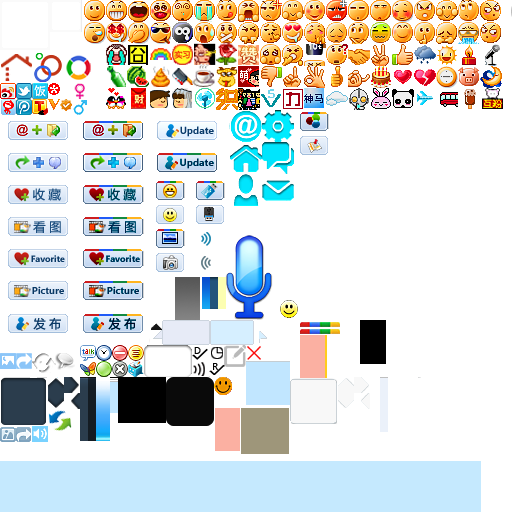
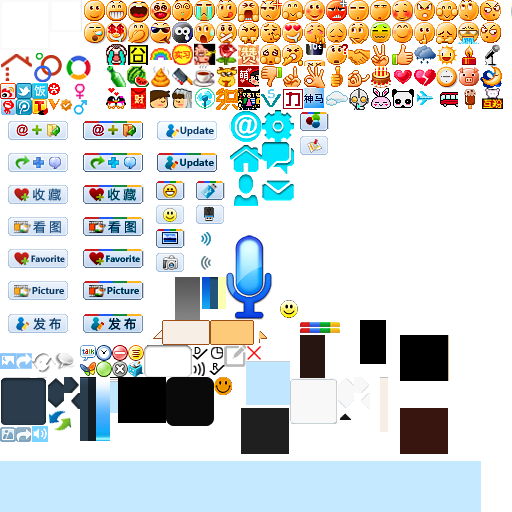
G+暖色配色

diff --git a/branches/BBM_Skin/client/src/com/yuchting/yuchberry/client/im/MainChatScreen.java b/branches/BBM_Skin/client/src/com/yuchting/yuchberry/client/im/MainChatScreen.java
@@ -676,7 +676,7 @@ final class MiddleMgr extends VerticalFieldManager{
 
 public class MainChatScreen extends MainScreen implements ChatField.IChatFieldOpen{
 	
-	public final static int fsm_background = 0xf3ecfc;
+	public final static int fsm_background = 0xd8d8d8; //聊天对话背景色
 	
 	int m_menu_op = 0;
 	MenuItem m_sendMenu = new MenuItem(recvMain.sm_local.getString(yblocalResource.WEIBO_SEND_LABEL),m_menu_op++,0){
@@ -894,7 +894,7 @@ public class MainChatScreen extends MainScreen implements ChatField.IChatFieldOp
 				
 				_g.setColor(0xffffff);//(RosterItemField.fsm_nameTextColor);//
 				_g.setFont(MainIMScreen.fsm_boldFont);
-				
+	
 				_g.drawText(m_currRoster.m_roster.getName(),t_x,2);
 				
 			}finally{
@@ -902,10 +902,10 @@ public class MainChatScreen extends MainScreen implements ChatField.IChatFieldOp
 				_g.setFont(font);
 			}
 			
-			t_x = RosterItemField.drawChatSign(_g,getPreferredWidth(),getPreferredHeight(),m_currRoster.m_roster.getStyle(),m_currRoster.m_isYuch);
+			t_x = RosterItemField.drawChatSign(_g,getPreferredWidth() - 35 ,getPreferredHeight(),m_currRoster.m_roster.getStyle(),m_currRoster.m_isYuch);//防止系统输入法标示遮挡sign
 						
 			if(m_currRoster.m_currChatState == fetchChatMsg.CHAT_STATE_COMPOSING){
-				recvMain.sm_weiboUIImage.drawImage(_g, sm_composing, t_x - sm_composing.getWidth(), 3);
+				recvMain.sm_weiboUIImage.drawImage(_g, sm_composing, t_x - sm_composing.getWidth()- 12, 3); //防止系统输入法标示遮挡输入状态
 			}
 		}
 	}
@@ -970,7 +970,7 @@ public class MainChatScreen extends MainScreen implements ChatField.IChatFieldOp
 		m_mainScreen	= _mainScreen;
 		
 		m_middleMgr		= new MiddleMgr(this);
-		m_title 		= recvMain.sm_weiboUIImage.getImageUnit("im_nav_bar");		//IM Chat Header BG 
+		m_title 		= recvMain.sm_weiboUIImage.getImageUnit("im_chat_nav_bar");		//IM Chat Header BG 
 		m_header 		= new ChatScreenHeader();
 		m_hasImageSign	= recvMain.sm_weiboUIImage.getImageUnit("picSign");
 		m_hasVoiceSign	= recvMain.sm_weiboUIImage.getImageUnit("voice_sign");

diff --git a/branches/BBM_Skin/client/src/com/yuchting/yuchberry/client/im/ChatField.java b/branches/BBM_Skin/client/src/com/yuchting/yuchberry/client/im/ChatField.java
@@ -57,11 +57,11 @@ public class ChatField extends Manager{
 	public final static int	fsm_maxTextWidth 		= recvMain.fsm_display_width - fsm_offsetWidth - fsm_border * 2 - fsm_bubblePointWidth - 12;//修正时间出界//
 
 	
-	public final static int	fsm_ownChatTextBGColor		= 0xd6efff; 
-	public final static int	fsm_otherChatTextBGColor	= 0xe7ebf7; 
+	public final static int	fsm_ownChatTextBGColor		= 0xffb238; 
+	public final static int	fsm_otherChatTextBGColor	= 0xf7eee5; 
 	
-	public final static int	fsm_ownChatTextFGColor		= 0; 
-	public final static int	fsm_otherChatTextFGColor	= 0; 
+	public final static int	fsm_ownChatTextFGColor		= 0x572500; 
+	public final static int	fsm_otherChatTextFGColor	= 0x543f29; 
 
 	public final static int	fsm_timeTextBGColor			= 0xffffff; 
 //	public final static int	fsm_timeTextBorderColor		= 0xc0c0c0;  					//

diff --git a/branches/BBM_Skin/client/src/com/yuchting/yuchberry/client/im/RosterItemField.java b/branches/BBM_Skin/client/src/com/yuchting/yuchberry/client/im/RosterItemField.java
@@ -45,8 +45,8 @@ public class RosterItemField extends Field{
 	
 	public final static int		fsm_headImageWidth 			= recvMain.fsm_display_width>320 ? fetchWeibo.fsm_headImageSize_l:fetchWeibo.fsm_headImageSize;
 	
-	public final static int		fsm_nameTextColor			= 0x000000;
-	public final static int		fsm_statusTextColor			= 0x323232;
+	public final static int		fsm_nameTextColor			= 0x512301; //别名字体颜色
+	public final static int		fsm_statusTextColor			= 0x323232; //聊天状态字体颜色
 	
 	public final static Font		fsm_addressFont			= MainIMScreen.fsm_defaultFont.derive(MainIMScreen.fsm_defaultFont.getStyle(),MainIMScreen.fsm_defaultFontHeight - 2);
 	public final static int		fsm_addressFontHeight	= fsm_addressFont.getHeight();

diff --git a/branches/BBM_Skin/client/src/com/yuchting/yuchberry/client/im/MainIMScreen.java b/branches/BBM_Skin/client/src/com/yuchting/yuchberry/client/im/MainIMScreen.java
@@ -94,7 +94,7 @@ public class MainIMScreen extends MainScreen implements FieldChangeListener{
 		}
 	}
 	
-	public final static int fsm_backgroundColor = 0xf0fbff;
+	public final static int fsm_backgroundColor = 0xf3f3f3; //列表空白区域颜色
 	
 	int m_menu_label = 0;
 	
